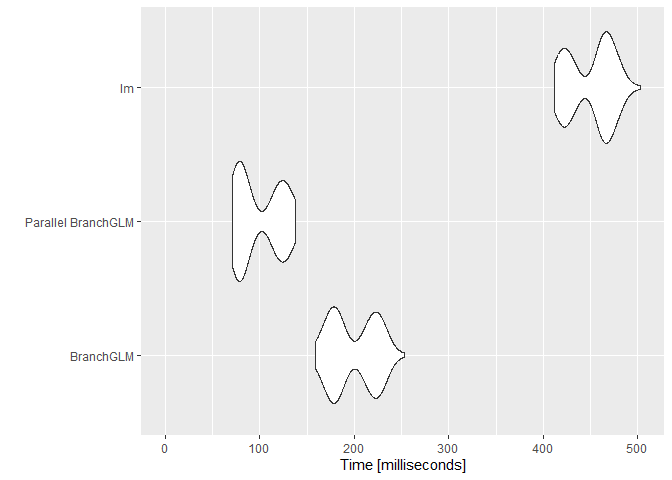
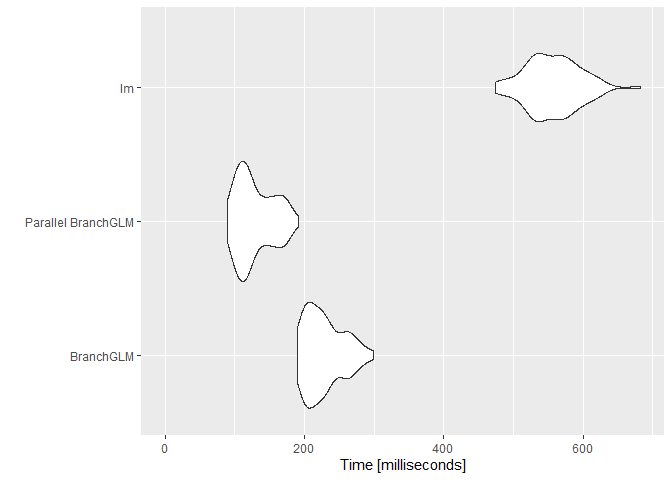
Updating for version 2.1.4

diff --git a/README.md b/README.md
@@ -155,7 +155,7 @@ BranchTime
 ```
 
     ##    user  system elapsed 
-    ##    0.09    0.03    0.14
+    ##    0.16    0.00    0.16
 
 ``` r
 ### Timing exhaustive search
@@ -166,10 +166,10 @@ ExhaustiveTime
 ```
 
     ##    user  system elapsed 
-    ##  115.02    0.35  128.68
+    ##  135.42    0.33  148.69
 
 Finding the top 10 logistic regression models for this simulated dataset
-with 15 variables with the branch and bound method is about 919.14 times
+with 15 variables with the branch and bound method is about 929.31 times
 faster than an exhaustive search.
 
 ### Checking results
@@ -224,7 +224,7 @@ SerialTime
 ```
 
     ##    user  system elapsed 
-    ##    8.71    0.10   10.42
+    ##   10.25    0.11   11.85
 
 ### Parallel time
 
@@ -239,10 +239,10 @@ ParallelTime
 ```
 
     ##    user  system elapsed 
-    ##    1.39    0.01    2.15
+    ##    2.34    0.03    2.46
 
 Finding the top logistic regression model for this simulated dataset
-with 40 variables with parallel computation is about 4.85 times faster
+with 40 variables with parallel computation is about 4.82 times faster
 than without parallel computation.
 
 ### Checking results
